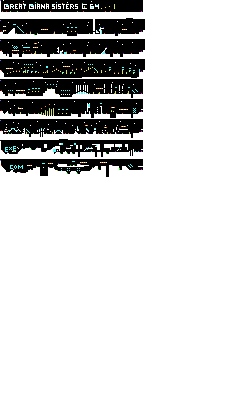
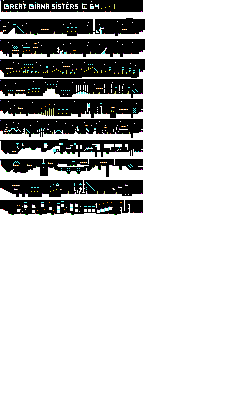
adde bee monster and 9th and 10th level

Changed region(s): [[0.0, 0.45, 0.6125, 0.54], [0.0583, 0.39, 0.0875, 0.42], [0.0292, 0.36, 0.0583, 0.39]]

diff --git a/core/src/com/mdinic/game/giana/Bee.java b/core/src/com/mdinic/game/giana/Bee.java
@@ -1,0 +1,84 @@
+package com.mdinic.game.giana;
+
+import com.badlogic.gdx.math.Rectangle;
+import com.badlogic.gdx.math.Vector2;
+
+public class Bee {
+    static final int FORWARD = 1;
+    static final int BACKWARD = -1;
+    static final float FORWARD_VEL = 2;
+    static final float BACKWARD_VEL = 2;
+
+    boolean alive = true;
+
+    int state = FORWARD;
+    float stateTime = 0;
+    Map map;
+    Rectangle bounds = new Rectangle();
+
+    Vector2 vel = new Vector2();
+    Vector2 pos = new Vector2();
+    int fx = 0;
+    int bx = 0;
+
+    public Bee(Map map, float x, float y) {
+
+        this.map = map;
+        pos.x = x;
+        pos.y = y;
+        bounds.x = x;
+        bounds.y = y;
+        bounds.width = bounds.height = 1;
+
+        vel.set(-1, 0);
+    }
+
+    public void init() {
+        int ix = (int) pos.x;
+        int iy = (int) pos.y;
+
+        int left = map.tiles[ix - 1][map.tiles[0].length - 1 - iy];
+        int right = map.tiles[ix + 1][map.tiles[0].length - 1 - iy];
+
+        if (left == Map.TILE) {
+            vel.x = FORWARD_VEL;
+            fx = 1;
+        }
+        if (right == Map.TILE) {
+            vel.x = -FORWARD_VEL;
+            bx = 1;
+        }
+    }
+
+    public void update(float deltaTime) {
+        stateTime += deltaTime;
+        pos.add(vel.x * deltaTime, vel.y * deltaTime);
+        boolean change = false;
+        int y = map.tiles[0].length - 1 - (int) pos.y;
+        if (state == FORWARD) {
+            change = map.isColidable(map.tiles[(int) Math.floor(pos.x) + fx][y]);
+        } else {
+            change = map.isColidable(map.tiles[(int) Math.ceil(pos.x) + bx][y]);
+        }
+        if (change) {
+            pos.x -= vel.x * deltaTime;
+            pos.y -= vel.y * deltaTime;
+            state = -state;
+            vel.scl(-1);
+            if (state == FORWARD)
+                vel.nor().scl(FORWARD_VEL);
+            if (state == BACKWARD)
+                vel.nor().scl(BACKWARD_VEL);
+        }
+
+        bounds.x = pos.x;
+        bounds.y = pos.y;
+
+        if (alive && map.giana.bounds.overlaps(bounds)) {
+            if (map.giana.state != GianaState.DYING) {
+                map.giana.state = GianaState.DYING;
+                map.giana.stateTime = 0;
+            }
+        }
+    }
+}

diff --git a/core/src/com/mdinic/game/giana/MapRenderer.java b/core/src/com/mdinic/game/giana/MapRenderer.java
@@ -73,6 +73,8 @@ public class MapRenderer {
     private Animation treatBallRightAnim;
     private Animation treatBallLeftAnim;
     private Animation piranhaAnim;
+    private Animation waspRightAnim;
+    private Animation waspLeftAnim;
 
     public MapRenderer(Map map) {
         this.map = map;
@@ -121,6 +123,16 @@ public class MapRenderer {
 
         Texture groundMonstersTexture = new Texture(Gdx.files.internal("data/groundmonsters.png"));
         Texture lobsterTexture = new Texture(Gdx.files.internal("data/lobster.png"));
+        waspRightAnim = new Animation(0.3f, new TextureRegion(new Texture(Gdx.files.internal("data/wasp.png"))).split(
+                24, 20)[0]);
+
+        TextureRegion[] waspRegionLeft = new TextureRegion(new Texture(Gdx.files.internal("data/wasp.png"))).split(24,
+                20)[0];
+        for (TextureRegion textureRegion : waspRegionLeft) {
+            textureRegion.flip(true, false);
+        }
+
+        waspLeftAnim = new Animation(0.3f, waspRegionLeft);
 
         TextureRegion[] piranhaRegion = new TextureRegion(new Texture(Gdx.files.internal("data/piranha.png"))).split(
                 20, 20)[0];
@@ -271,6 +283,7 @@ public class MapRenderer {
         renderMovingSpikes();
         renderGroundMonsters();
         renderPiranhas();
+        renderBees();
         renderTreats();
         renderGiana();
         renderDiamonds();
@@ -443,6 +456,16 @@ public class MapRenderer {
     private void renderPiranhas() {
         for (Fish fish : map.fishes) {
             batch.draw(piranhaAnim.getKeyFrame(fish.stateTime, true), fish.pos.x, fish.pos.y, 1, 1);
+        }
+    }
+
+    private void renderBees() {
+        for (Bee bee : map.bees) {
+            if (bee.state == Bee.FORWARD)
+                batch.draw(waspRightAnim.getKeyFrame(bee.stateTime, true), bee.pos.x, bee.pos.y, 1, 1);
+            else
+                batch.draw(waspLeftAnim.getKeyFrame(bee.stateTime, true), bee.pos.x, bee.pos.y, 1, 1);
+
         }
     }
 

diff --git a/core/src/com/mdinic/game/giana/Map.java b/core/src/com/mdinic/game/giana/Map.java
@@ -26,6 +26,8 @@ public class Map {
     static int TREAT_BOX = 0xff8a00;
     static int TREAT_BOX_BALL = 0xffcb8d;
 
+    static int BEE = 0xd2a285;
+
     static int LEVEL_PIXELBUFFER = 20;
 
     List<Integer> colidableColors = new ArrayList<Integer>();
@@ -56,6 +58,7 @@ public class Map {
     Array<SmallDiamoind> treatSmallDiamoinds = new Array<SmallDiamoind>();
     Array<Tile> tileArray = new Array<Tile>();
 
+    Array<Bee> bees = new Array<Bee>();
     Array<Fish> fishes = new Array<Fish>();
 
     Vector2 startPosition = new Vector2();
@@ -71,7 +74,7 @@ public class Map {
         this.lives = oldMap.lives;
         this.diamondsCollected = oldMap.diamondsCollected;
         this.score = oldMap.score;
-        this.giana.big = oldMap.giana.big;
+        // this.giana.big = oldMap.giana.big;
     }
 
     public Map(int level) {
@@ -123,6 +126,8 @@ public class Map {
 
                 } else if (match(pix, DIAMOND)) {
                     diamonds.add(new Diamond(this, x, pixmap.getHeight() - 1 - y));
+                } else if (match(pix, BEE)) {
+                    bees.add(new Bee(this, x, pixmap.getHeight() - 1 - y));
                 } else if (GoundMonsterType.containsColor(pix) != null) {
                     groundMonsters.add(new GroundMonster(this, x, pixmap.getHeight() - 1 - y, GoundMonsterType
                             .containsColor(pix)));
@@ -185,6 +190,10 @@ public class Map {
         }
         for (GroundMonster monster : groundMonsters) {
             monster.update(deltaTime);
+        }
+
+        for (Bee bee : bees) {
+            bee.update(deltaTime);
         }
 
         for (Treat treat : treats) {

diff --git a/core/src/com/mdinic/game/giana/Tile.java b/core/src/com/mdinic/game/giana/Tile.java
@@ -31,7 +31,7 @@ public class Tile {
             stateTime += deltaTime;
             switch (state) {
             case NORMAL:
-                if (map.giana.headHitBounds.overlaps(bounds) && map.giana.big) {
+                if (map.giana.headHitBounds.overlaps(bounds) && map.giana.big && map.giana.state == GianaState.JUMP) {
                     state = State.EXPLODING;
                     stateTime = 0;
                 }

diff --git a/core/src/com/mdinic/game/giana/screens/GianaSistersScreen.java b/core/src/com/mdinic/game/giana/screens/GianaSistersScreen.java
@@ -9,7 +9,7 @@ public abstract class GianaSistersScreen implements Screen {
     protected final Game game;
 
     public static final int SCREEN_WIDTH = 480;
-    public static final int LEVEL_COUNT = 8;
+    public static final int LEVEL_COUNT = 10;
 
     public GianaSistersScreen(Game game) {
         this.game = game;

diff --git a/core/src/com/mdinic/game/giana/Giana.java b/core/src/com/mdinic/game/giana/Giana.java
@@ -71,7 +71,6 @@ public class Giana {
 
     public void update(float deltaTime) {
         stateTime += deltaTime;
-
         if (map.time == 0) {
             if (map.giana.state != GianaState.DYING) {
                 map.giana.state = GianaState.DYING;
